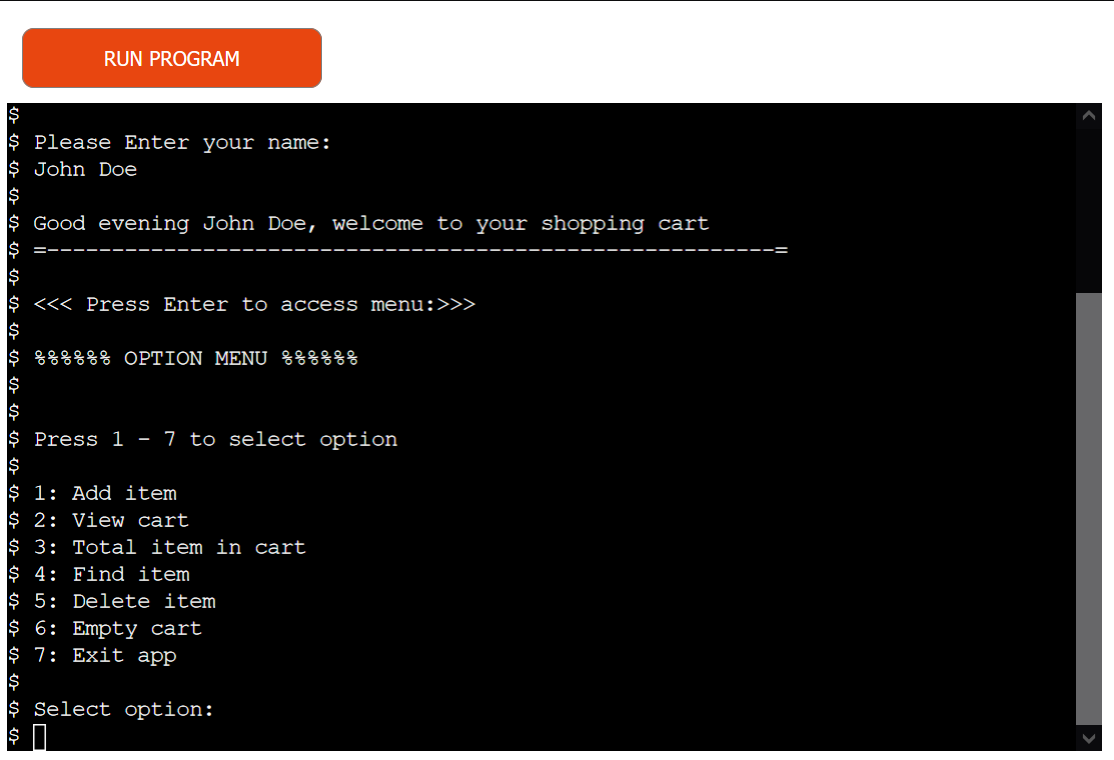
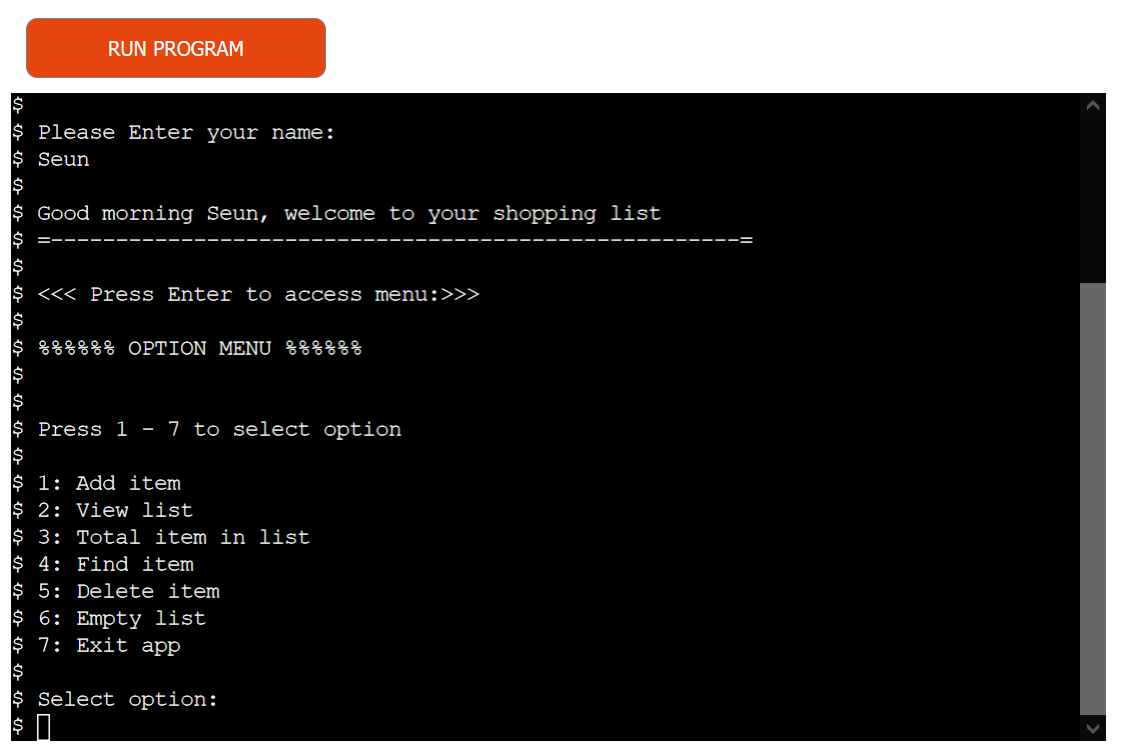
Add readme

Changed region(s): [[0.0, 0.0, 1.0, 1.0], [0.1526, 0.5476, 0.3662, 0.6085]]

diff --git a/README.md b/README.md
@@ -1,9 +1,10 @@
 # Shopping List Manager #
 
-* The shopping cart manager is an direct equivalent to the popular shopping list manager program, It is a kind of shopping bot that allows the user input and manipulation of data according to the user choices and the shopping bot outputs a result based on user choices and input.
+* The shopping list manager is an application like a  shopping bot that allows the user to input data and manipulate it according to the user choices and the shopping bot outputs a result based on user choices and input.
 
-* The aim of this program is to help user have a proper planning with grocery shopping, by having a grocery list is beneficial to a user in a lot of ways.
-    First, a user will likely make an improptu decision to impulse buy a product that was never in the plan, this kind of uncontrolled urge will definitly impact the user financially, which the ripple effect can spread all the way to incur debt , which can eventually be a detriment to a once healthy credit score. However, having a proper planning of the items you want to buy could come in handy as it will help in avoiding over spending, and impulse buying by helping user to focus on what is really needed.
+* The aim of this program is to help user have a proper planning with shopping list record,
+ this  shopping list app is beneficial to users in a lot of ways. 
+ First, a user will likely make an improptu decision to impulse buy a product that was never in the plan, this kind of uncontrolled urge will definitly impact the user financially, which the ripple effect can spread all the way to incur debt , it can also be a detriment to a once healthy credit score. However, having a proper planning of the items you want to buy could come in handy as it will help in avoiding over spending, and impulse buying by helping user to focus on what is really needed.
 
 * Secondly, the shopping list program saves user time and energy, not having a list of what to buy at the store makings shopping a headache and time consuming as wider product choices can be a distraction which can be overwhelming sometimes, but if you already have the choice of items you which to buy makes shopping very easy and less time consuming. In the same vein, having a shopping list reduces waste in the sense that when you buy things you do not really need immediatly it most times end up in the trash.
 
@@ -11,21 +12,26 @@
 
 ![title and logo screen](/images/title.png)
 
+
+
 ## Features
 _______________________________
 
-### Greeting
+## Greeting
 
 *  The first thing a user sees when the program is been executed is a display of the program title with a design.
 
 * It asks the user to input a name which is then displayed as a greeting.
 
 
-![greeting](/images/greetings.png)
+![morning](/images/greetings2.png)
+
+![evening](/images/greetings.png)
 
 
-### Option Menu 
-* This is a section the shows  to the user available option to selct from. 
+
+## Option Menu 
+* This is a section that shows  to the user  the options available to choose from. 
 
 * This option ranges from 1 to 7.
 
@@ -33,69 +39,87 @@ _______________________________
 	
 
 
+
+
 ![Option Menu](/images/optionmenu.png)
 
-#### Option 1: Add item to list.
+
+
+## Option 1: Add item to list.
 
 * This option allow user to add items to the list.
 * It also tells the user if an item has already been added to avoid repetition.
 
 
-![object selection section](assets/images/optionarea.png)
-![object selection section](assets/images/optionarea.png)
 
-#### Option 2: View List
+
+![Option Menu 1a](/images/option1a.png)
+
+![Option Menu 1b](/images/option1b.png)
+
+
+
+## Option 2: View List
 
 * This option displays the content of the list. 
 
-* If nothing was previously added it displays "List is empty, try adding adding an item".
-
-![Footer section](assets/images/gameplay.png)
-![Footer section](assets/images/gameplay.png)
+* If nothing was previously added,  it displays "List is empty, try adding adding an item".
 
 
-#### Option 3: Total number of items in the list
+
+![Option Menu 2a](/images/option2a.png)
+
+![Option Menu 2b](/images/option2b.png)
+
+
+
+## Option 3: Total number of items in the list
 
 * This option displays the total number of items on the list. 
 
 * Displays "0" if the list is empty
 
 
-![score section](assets/images/playerscore.png)
+![Option Menu 3](/images/option3.png)
 
-#### Option 4: Find items in the list
+
+## Option 4: Find items in the list
 	
-* The find item in the list option searches the list for a user specified item name, which then search and returns a message if the item is found or not 
+* The find item in the list option searches the list for a user specified item name, which then search and return a message if the item is found or not 
 
 
-![Footer section](assets/images/rules.png)
-![Footer section](assets/images/rules.png)
+![Option Menu 4a](/images/option4a.png)
+
+![Option Menu 4b](/images/option4b.png)
 
 
-#### Option 5: Delete items from the list
+## Option 5: Delete items from the list
 
 * The delete item from the list option also searches the list for a user specified item name, which then search and delete the item if found on the list or not.
 
 
-![Footer section](assets/images/rules.png)
-![Footer section](assets/images/rules.png)
+![Option Menu 5a](/images/option5a.png)
+
+![Option Menu 5b](/images/option5b.png)
 
 
-#### Option 6: Empty  the list
+
+## Option 6: Empty  the list
 
 * This erase every content of the list and return it back to an empty list.
 * It prints a message based on if the list is already empty or not.
 
-![Footer section](assets/images/rules.png)
-![Footer section](assets/images/rules.png)
+![Option Menu 6a](/images/option6a.png)
 
-#### Option 7: Exit program
+![Option Menu 6b](/images/option6b.png)
+
+## Option 7: Exit program
 
 * This function allows user to exit the program.
 * It gives the user an option to chose either to exit or run the program again from the beginning.
 * It also print a thank you message to the user based on the time of the day.
 
-![Footer section](assets/images/rules.png)
+![Option Menu 7](/images/option7a.png)
 
 ## Testing
 
@@ -108,10 +132,10 @@ _______________________________
 ![Footer section](/images/pep8.png)
 ## Tools used
 
-### Language
+## Language
 * Python
 
-### Other program used: 
+## Other program used: 
 * Gitpod:
     * Gitpod: A versatile IDE used to code the program [Gitpod](https://www.gitpod.io/ "gitpod")
 
@@ -173,17 +197,23 @@ _______________________________
 * Click on view app button to run the application.
 
 
-* The Live link to the deployed program is  [Shopping list](https://gullah26.github.io/Rock_Paper_Scissors/ "rock paper scissors").
+* The Live link to the deployed program on Heroku [Shopping list](https://https://shopping-list-v01.herokuapp.com/ "shopping list manager").
+
+* The github link is  [Shopping list](https://github.com/gullah26/shopping_list "shopping list manager").
 
 ## Credits
 
 * Content
 
-	* The part of the code to make the function check winner was from  [sebhastian](https://sebhastian.com/rock-paper-scissors-javascript/ "sebhastian")
+	* Insipiration was drawn  from  [Geek tutorials](https://www.youtube.com/watch?v=9-jazqksAnA "geek tutorials")
 
-	* The inspiration to start  the project is from  Code Institute Portfolio Project Scope.
+    * Insipiration to structure the flow  [Richard](https://gist.github.com/richardbwest/d0365ebb89e89e7290e7cdb9cbc95530 "Richard")
+
+    * Some of the code to validate user data input was from [ Mrst12 ](https://github.com/Mrst12/shop-app#programmes-used "Mrst12")
+
+    The aim of the app inspiration was from [ Positive lending solution ](https://www.positivelendingsolutions.com.au/resources/information-centre/8-reasons-to-make-a-shopping-list/ "positive-lending-solution")
 
 
-## Media
+    ## Acknoledgements
 
-* The Images used on this game  was taken from [png set](https://pngset.com/download-free-png-yiceg "png set").
+    *  Codeinstitute , the slack community, and Codeinstitue mentor support team
